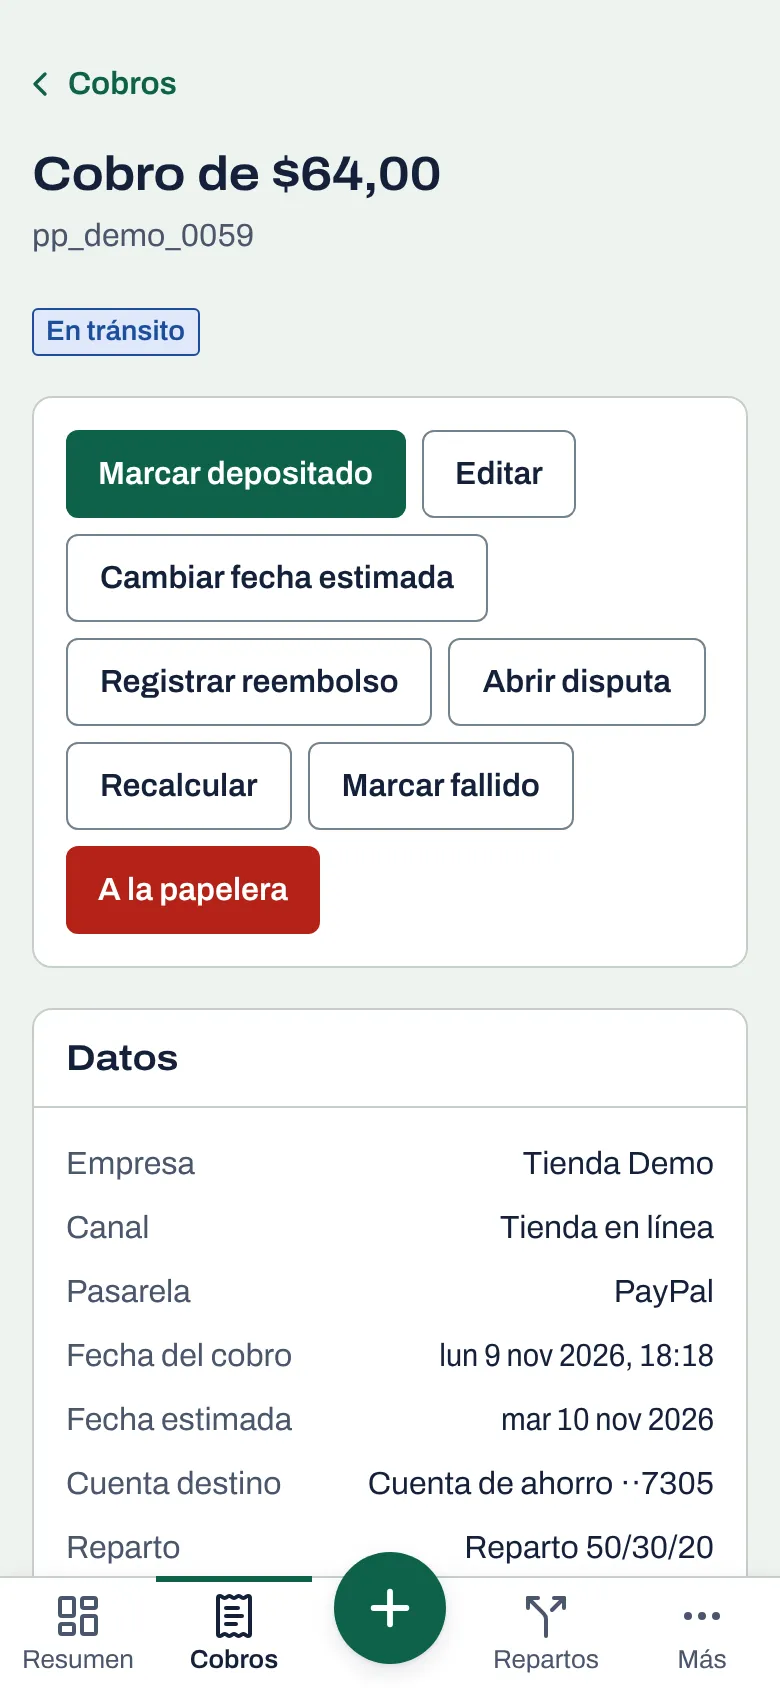
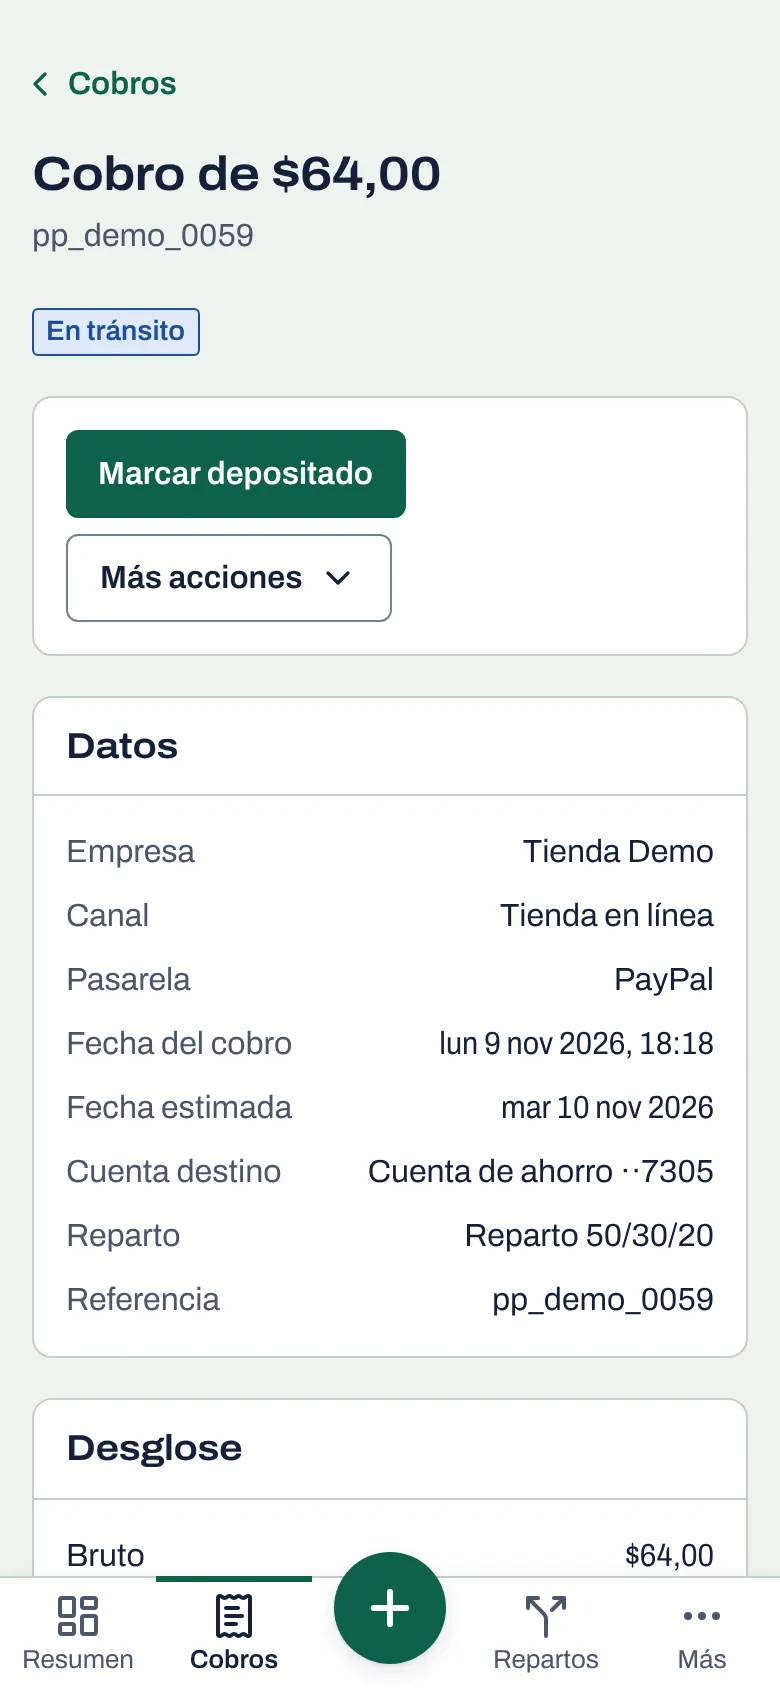
Capturas: las pantallas de hoy, con los controles nativos en español
Se vuelven a sacar después de la ola de arreglos (Resumen con los filtros
plegados, detalle con «Más acciones», importar con su botón). El navegador de
las capturas va en español: los controles de fecha y de archivo no siguen el
idioma de la página, y salían como «11/09/2026, 06:18 PM» y «Choose File».

Claude-Session: https://claude.ai/code/session_01VTRkH1xWXyZMh7zcMSXbpG

diff --git a/pasarelas/scripts/capturas.ts b/pasarelas/scripts/capturas.ts
@@ -133,7 +133,14 @@ async function main(): Promise<void> {
   assertLocalStack();
   const baseURL = process.argv[2] ?? "http://127.0.0.1:3000";
   // Lo primero: un fallo antes de crear el usuario no deja nada que borrar.
-  const browser = await chromium.launch();
+  // Los controles nativos (fecha y hora, archivo) no siguen el `locale` del contexto sino el idioma del navegador:
+  // sin esto salen «11/09/2026, 06:18 PM» y «Choose File». El Chromium completo (no el de solo pruebas) lo toma de
+  // `LANGUAGE` en Linux y de `--lang` en Windows.
+  const browser = await chromium.launch({
+    channel: "chromium",
+    args: ["--lang=es-ES"],
+    env: { ...process.env, LANG: "es_ES.UTF-8", LANGUAGE: "es" },
+  });
   let ownerId: string | null = null;
   try {
     const owner = await createUser();
